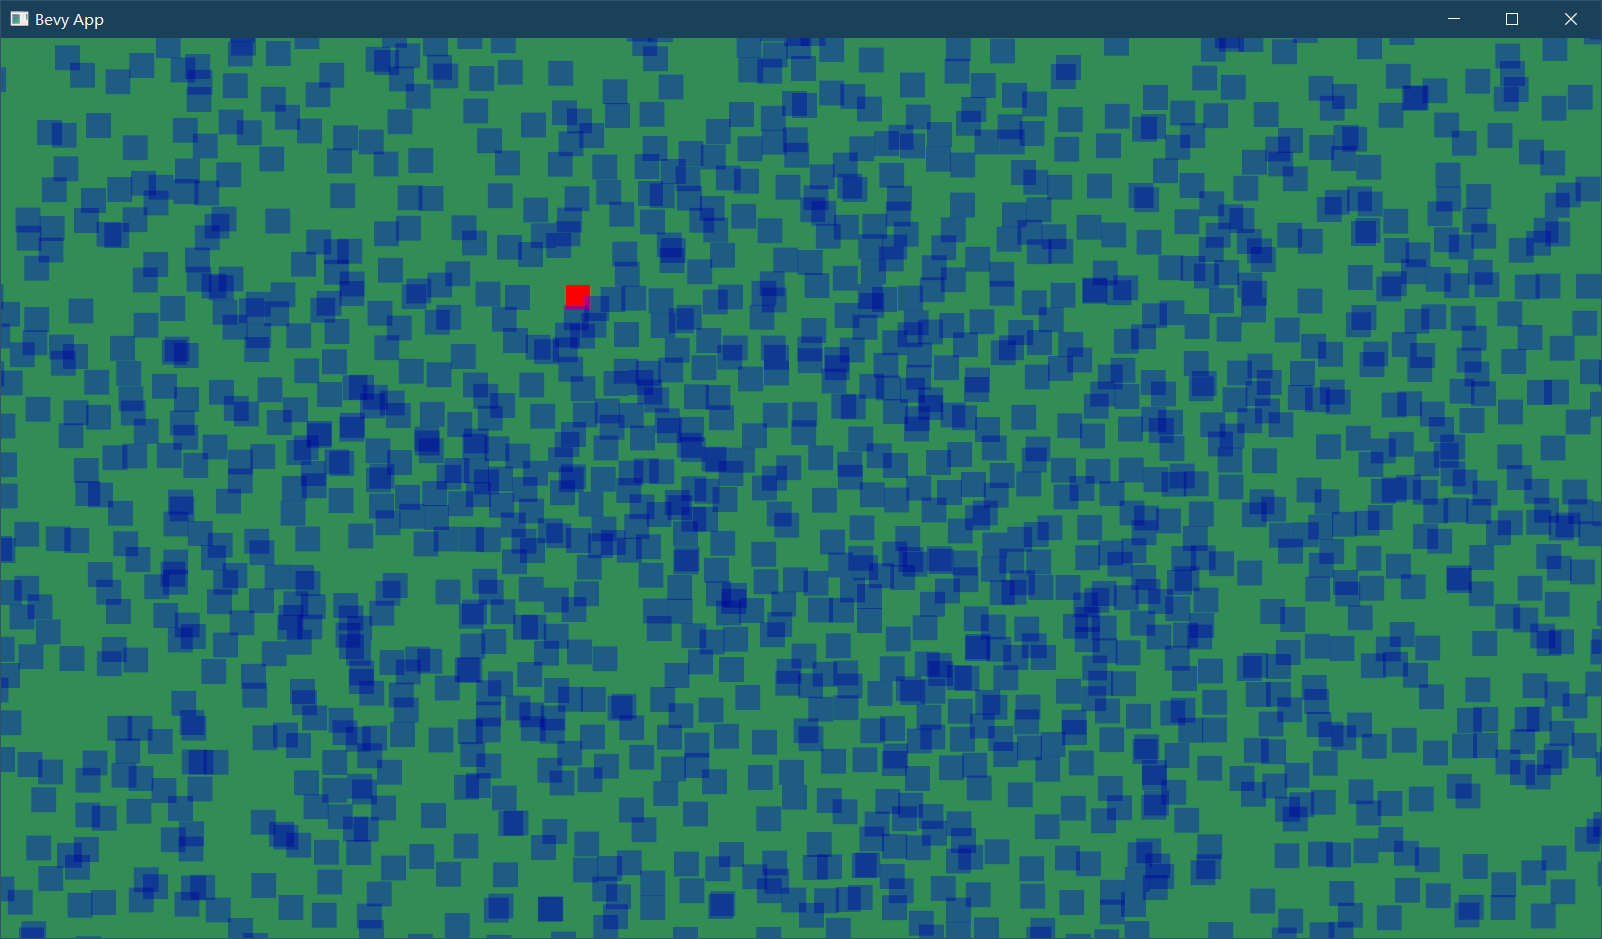
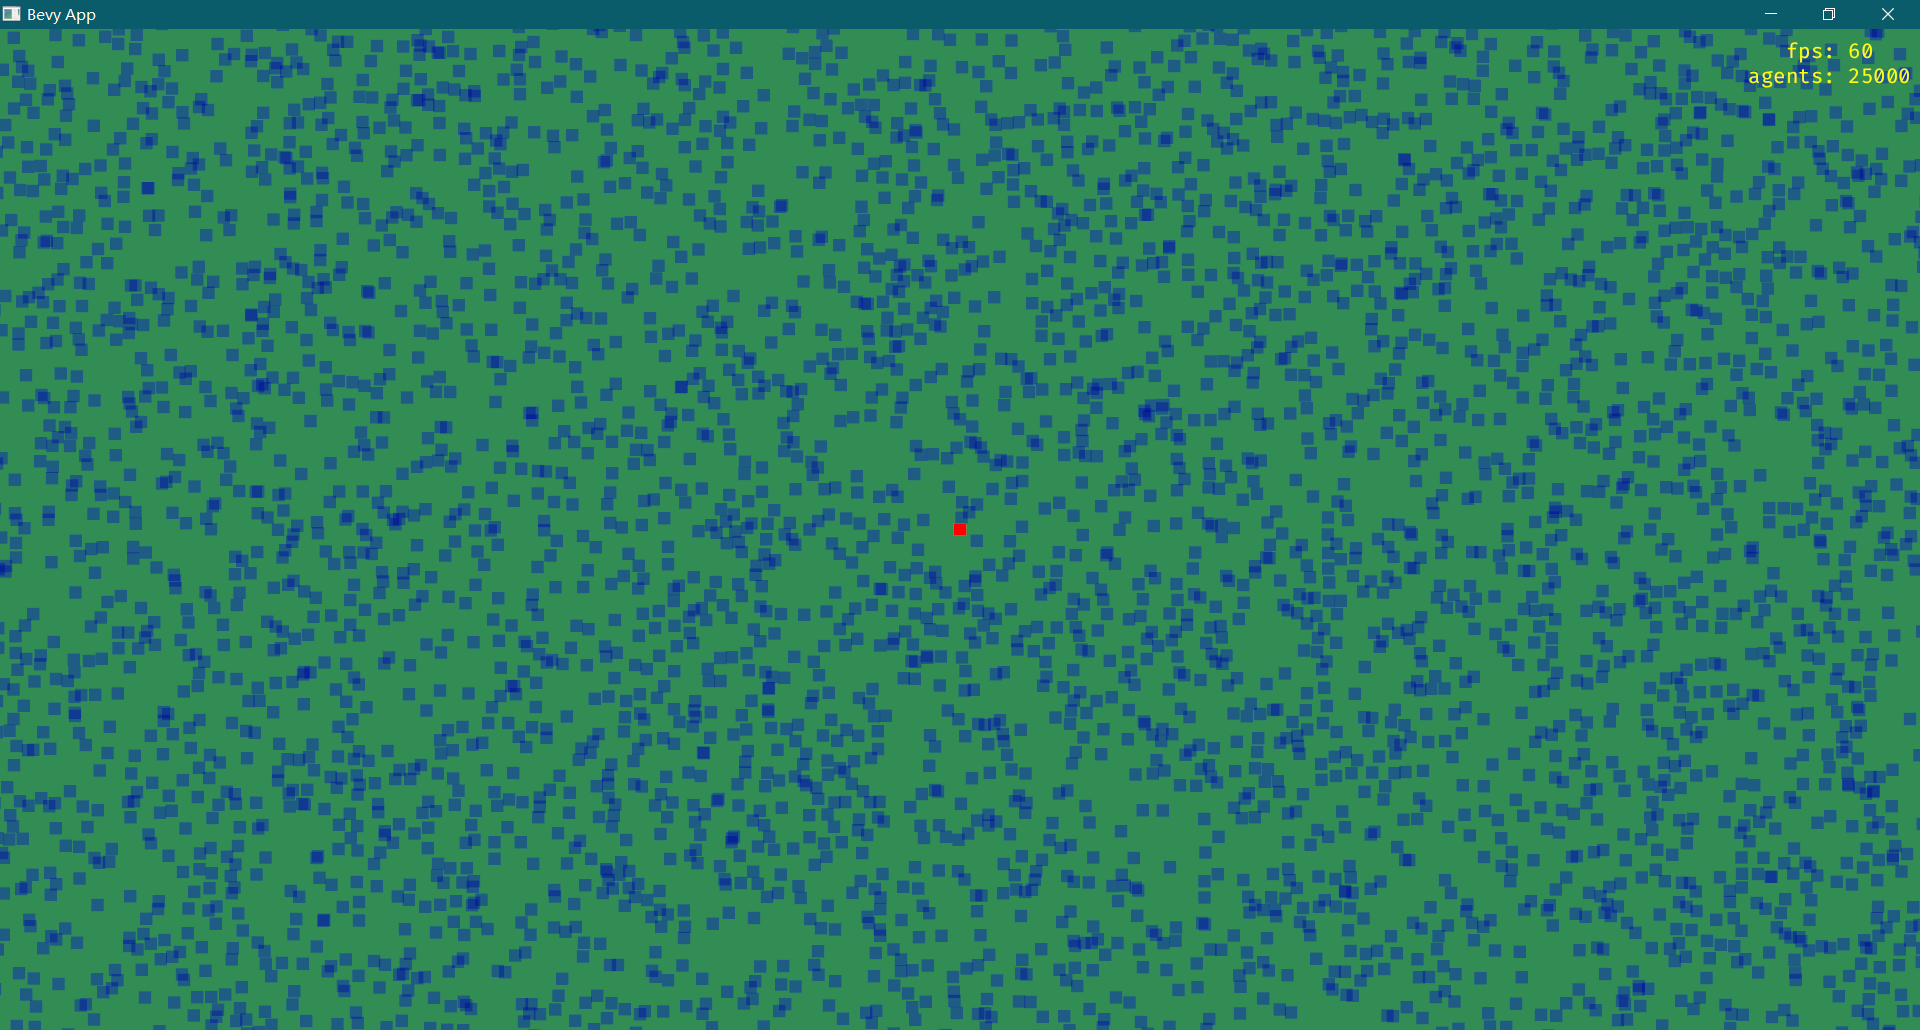
[example] add camera moving and fps display.

diff --git a/examples/bevy_mods/ugrid/uagent.rs b/examples/bevy_mods/ugrid/uagent.rs
@@ -1,5 +1,6 @@
 use bevy::{prelude::*, sprite::Anchor};
-use grid::{INVALID, ItemSpec, ugrid::agent::*};
+
+use grid::{INVALID, ItemSpec, GridComm, ugrid::agent::*};
 use super::super::*;
 use super::{*, mover::Mover};
 
@@ -107,6 +108,15 @@ pub fn many_create_uagents(
                 if !agent.is_free() {
                     
                     commands.spawn(UAgentBundle::new(&agent, grid.0.agent_size, true));
+
+                    if agent.id == MAIN_ID {
+
+                        let mut camera = Camera2dBundle::default();
+                        camera.transform.translation.x = agent.x as f32;
+                        camera.transform.translation.y = agent.y as f32;
+
+                        commands.spawn(camera);
+                    }
                 }
 
                 index = agent.next;
@@ -196,15 +206,22 @@ pub fn many_move_uagents(
 
             prev.x = transform.translation.x as i16;
             prev.y = transform.translation.y as i16;
-    
+
             let offset = VECTORES[mover.dir];
-            transform.translation.x += AGENT_SPEED * offset.x;
-            transform.translation.y += AGENT_SPEED * offset.y;
+            transform.translation.x += mover.speed * offset.x;
+            transform.translation.y += mover.speed * offset.y;
 
             let x = transform.translation.x as i16;
             let y = transform.translation.y as i16;
 
             grid.move_cell(agent.0.id, prev.x, prev.y, x, y);
+
+            if let Some(dir) = grid.out_bounds(x, y) {
+
+                mover.back(dir);
+                
+                continue;
+            }
 
             let ids = grid.dir_query( mover.dir as u8, x, y, agent.0.id );
 
@@ -240,3 +257,4 @@ pub fn many_move_uagents(
         }
     }
 }
+

diff --git a/examples/many_ugrid.rs b/examples/many_ugrid.rs
@@ -3,7 +3,7 @@ use bevy::{prelude::*, diagnostic::FrameTimeDiagnosticsPlugin};
 mod bevy_mods;
 
 use bevy_mods::{
-    *, info::*,
+    *, info::*, camera::*,
     ugrid::{*, ucell::*, uagent::*},
 };
 
@@ -18,7 +18,6 @@ fn main() {
         .add_plugins(DefaultPlugins)
         .add_plugin(FrameTimeDiagnosticsPlugin::default())
         .add_state::<GameState>()
-        .add_startup_system(create_camera)
         .add_startup_system(create_info)
         .add_system(update)
         .add_system(
@@ -34,6 +33,10 @@ fn main() {
             .run_if(in_state(GameState::Playing))
         )
         .add_system(
+            (move_camera).after(keyboard_input)
+            .run_if(in_state(GameState::Playing))
+        )
+        .add_system(
             (update_ucells).after(move_uagent)
             .run_if(in_state(GameState::Playing))
         )
@@ -44,10 +47,6 @@ fn main() {
         .run();
 }
 
-fn create_camera(mut commands: Commands) {
-
-    commands.spawn(Camera2dBundle::default());
-}
 
 
 fn update() {

diff --git a/crates/grid_derive/src/lib.rs b/crates/grid_derive/src/lib.rs
@@ -73,6 +73,25 @@ pub fn derive_grid(input: TokenStream) -> TokenStream {
                 x >= -self.half_width && x < self.half_width &&
                 y > -self.half_height && y <= self.half_height
             }
+
+            fn out_bounds(&self, x: i16, y: i16) -> Option<u8> {
+                let l = -self.half_width;
+                let t = self.half_height;
+                let r = self.half_width;
+                let b = -self.half_height;
+                
+                if x < l && y > t {return Some(1);}
+                if x < l && y < b {return Some(3);}
+                if x > r && y < b {return Some(5);}
+                if x > r && y > t {return Some(7);}
+            
+                if y > t {return Some(0);}
+                if x < l {return Some(2);}
+                if y < b {return Some(4);}
+                if x > r {return Some(6);}
+            
+                return None;
+            }
             
             fn pos2grid(&self, x:i16, y:i16) -> (i16, i16) {
 

diff --git a/examples/bevy_mods/info.rs b/examples/bevy_mods/info.rs
@@ -1,5 +1,6 @@
 use bevy::prelude::*;
 use bevy::diagnostic::*;
+use super::*;
 
 const FONT_TTF: &str = "FiraCode-Regular.ttf";
 
@@ -31,12 +32,16 @@ impl Info {
             color: FONT_COLOR,
         };
 
+        let agents = format!("\nagents: {}", AGENTS);
+
         Self {
             fps: FPS,
 
             text_bundle: TextBundle::from_sections([
-                TextSection::new("\nfps: ", text_style.clone()),    // 0
+                TextSection::new("\n   fps: ", text_style.clone()),    // 0
                 TextSection::from_style(text_style.clone()),        // 1
+
+                TextSection::new(agents, text_style.clone()),    // 2
             ])
             .with_style(Style {
                 position_type: PositionType::Absolute,

diff --git a/examples/bevy_mods/mod.rs b/examples/bevy_mods/mod.rs
@@ -5,6 +5,7 @@ use bevy::{prelude::*, reflect::TypeUuid};
 pub mod dgrid;
 pub mod ugrid;
 pub mod mover;
+pub mod camera;
 pub mod info;
 
 const TCELL_COLOR: Color = Color::rgba(0.3, 0.3, 0.3, 0.6);
@@ -32,12 +33,12 @@ pub const VECTORES: [Vec2; 8] = [
 	Vec2{ x:-SQR, y:-SQR },
 ];
 
-const MIN_SPEED:f32 = 1.0;
+const MIN_SPEED:f32 = 0.5;
 const MAX_SPEED:f32 = 2.0;
 const MIN_DURATION:f32 = 2.0;
 const MAX_DURATION:f32 = 8.0;
 
-const AGENTS: u32 = 12000;
+const AGENTS: u32 = 25000;
 
 pub const MAIN_ID: u32 = 101;
 

diff --git a/examples/bevy_mods/camera.rs b/examples/bevy_mods/camera.rs
@@ -1,0 +1,22 @@
+use bevy::prelude::*;
+use super::*;
+
+
+pub fn move_camera(
+    mut query: Query<
+        &mut Transform,
+        With<Camera>,
+    >,
+    cmd: Res<Cmd>,
+) {
+    let mut transform = query.get_single_mut()
+                        .expect("error: camera not found.");
+
+    if let Some(dir) = cmd.dir {
+
+        let offset = VECTORES[dir];
+        transform.translation.x += AGENT_SPEED * offset.x;
+        transform.translation.y += AGENT_SPEED * offset.y;
+    }
+    
+}

diff --git a/examples/bevy_mods/mover.rs b/examples/bevy_mods/mover.rs
@@ -54,7 +54,7 @@ impl Mover {
         self.timer = Timer::from_seconds(self.duration, TimerMode::Once);
     }
 
-    pub fn back(&mut self, back: usize) {
+    pub fn back(&mut self, back: u8) {
     
         let range: i32 = rand::thread_rng().gen_range(-1..2);
         self.dir = (back as i32 + range + DIRECTIONS as i32) as usize % DIRECTIONS;

diff --git a/examples/bevy_mods/ugrid/mod.rs b/examples/bevy_mods/ugrid/mod.rs
@@ -48,7 +48,7 @@ impl RUGrid {
 
     pub fn new() -> Self {
 
-        Self(UGrid::new(5, 25, 40, 24))
+        Self(UGrid::new(5, 20, 40, 30))
     }
 }
 
@@ -105,8 +105,6 @@ pub fn many_create_ugrid(
 
     println!("create random ugrid done.");
 }
-
-
 
 pub fn keyboard_input(
     mut cmd: ResMut<Cmd>,

diff --git a/src/lib.rs b/src/lib.rs
@@ -44,6 +44,7 @@ pub trait CellComm {
 
 pub trait GridComm {
     fn in_grid(&self, x: i16, y: i16) -> bool;
+    fn out_bounds(&self, x: i16, y: i16) -> Option<u8>;
     fn pos2grid(&self, x:i16, y:i16) -> (i16, i16);
     fn grid2pos(&self, x:i16, y:i16) -> (i16, i16);
 }
